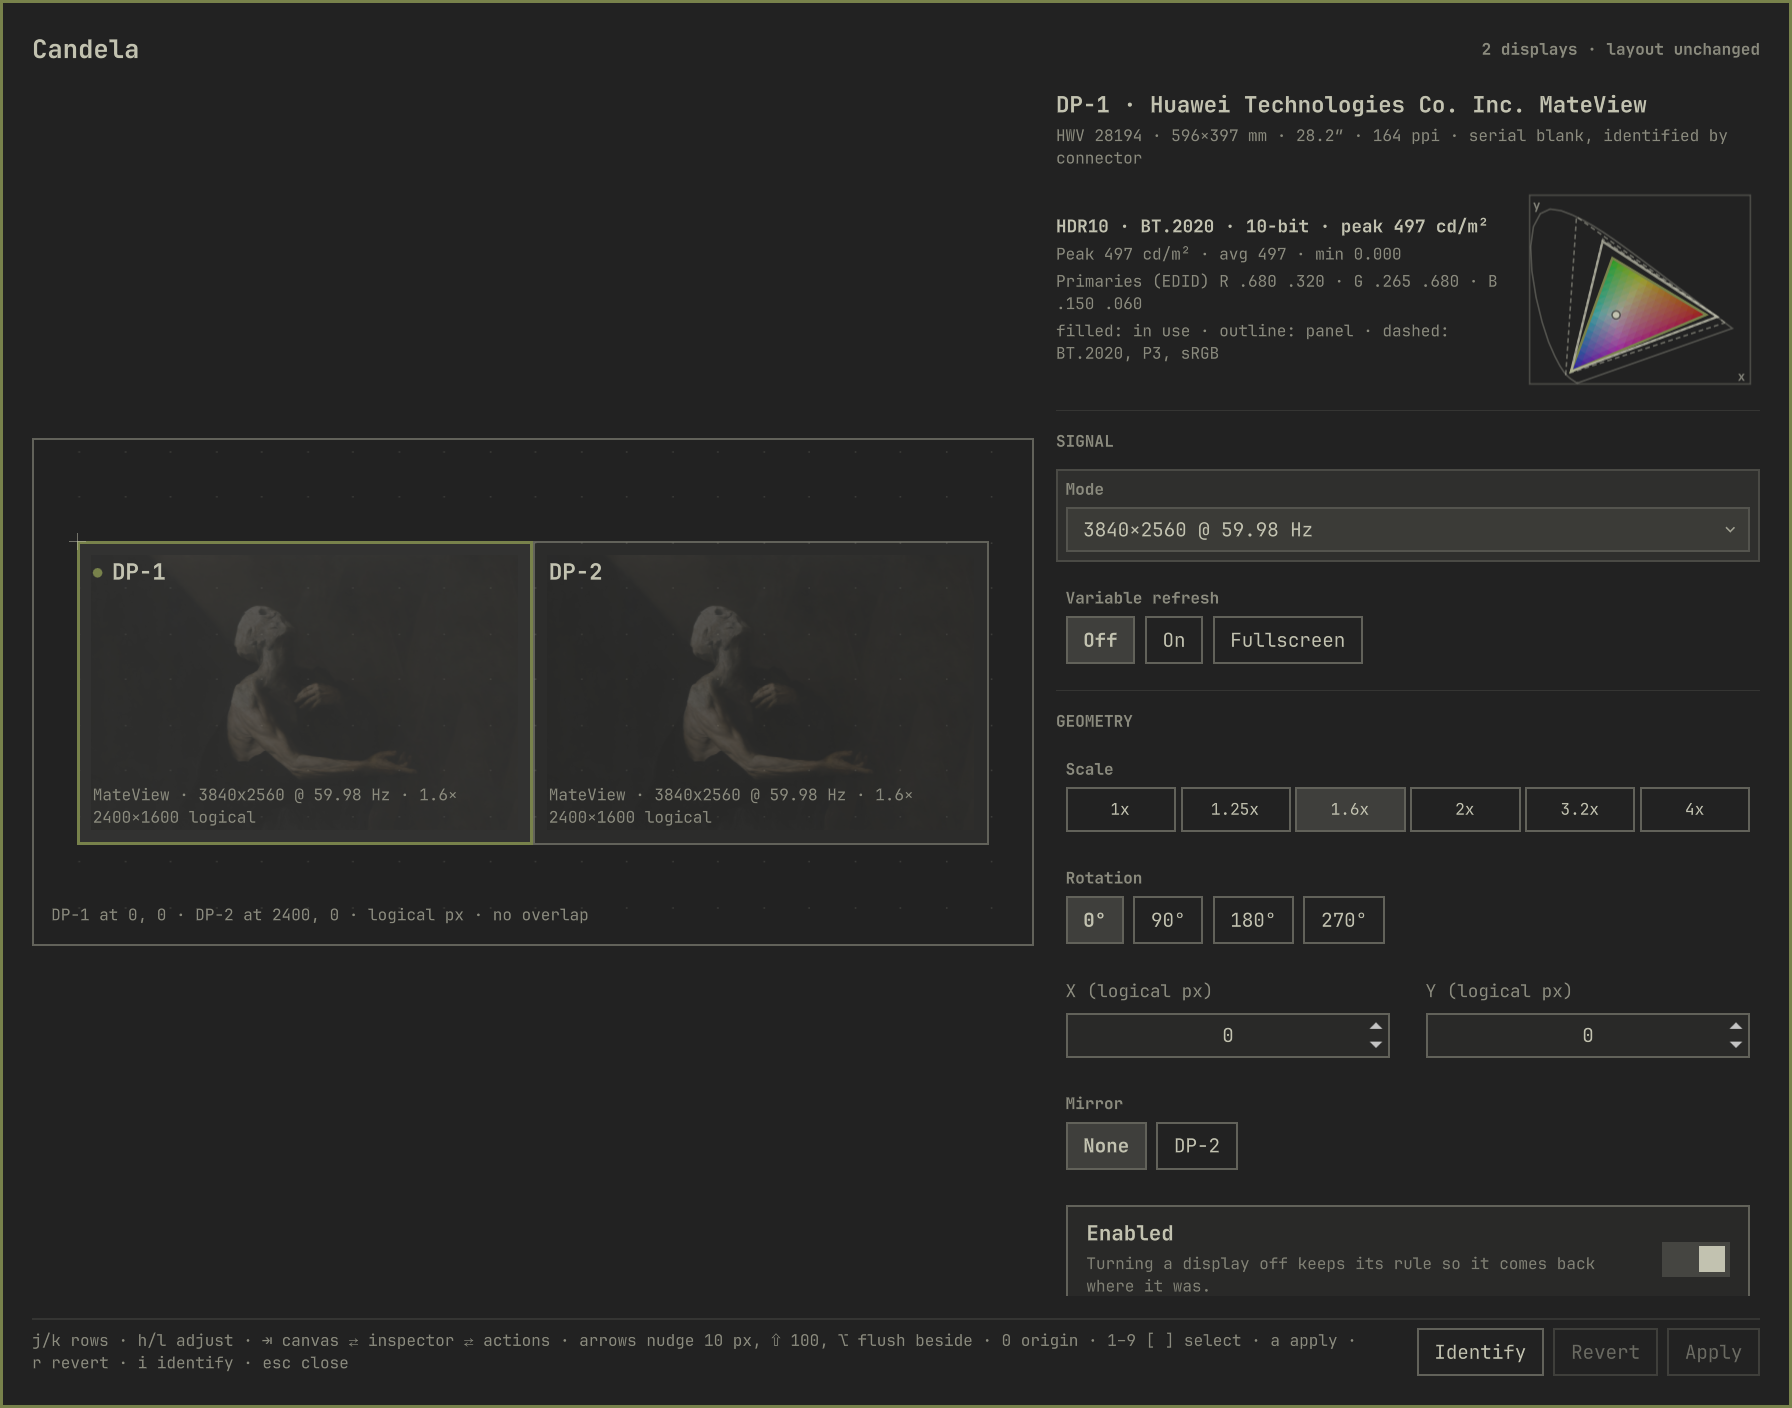
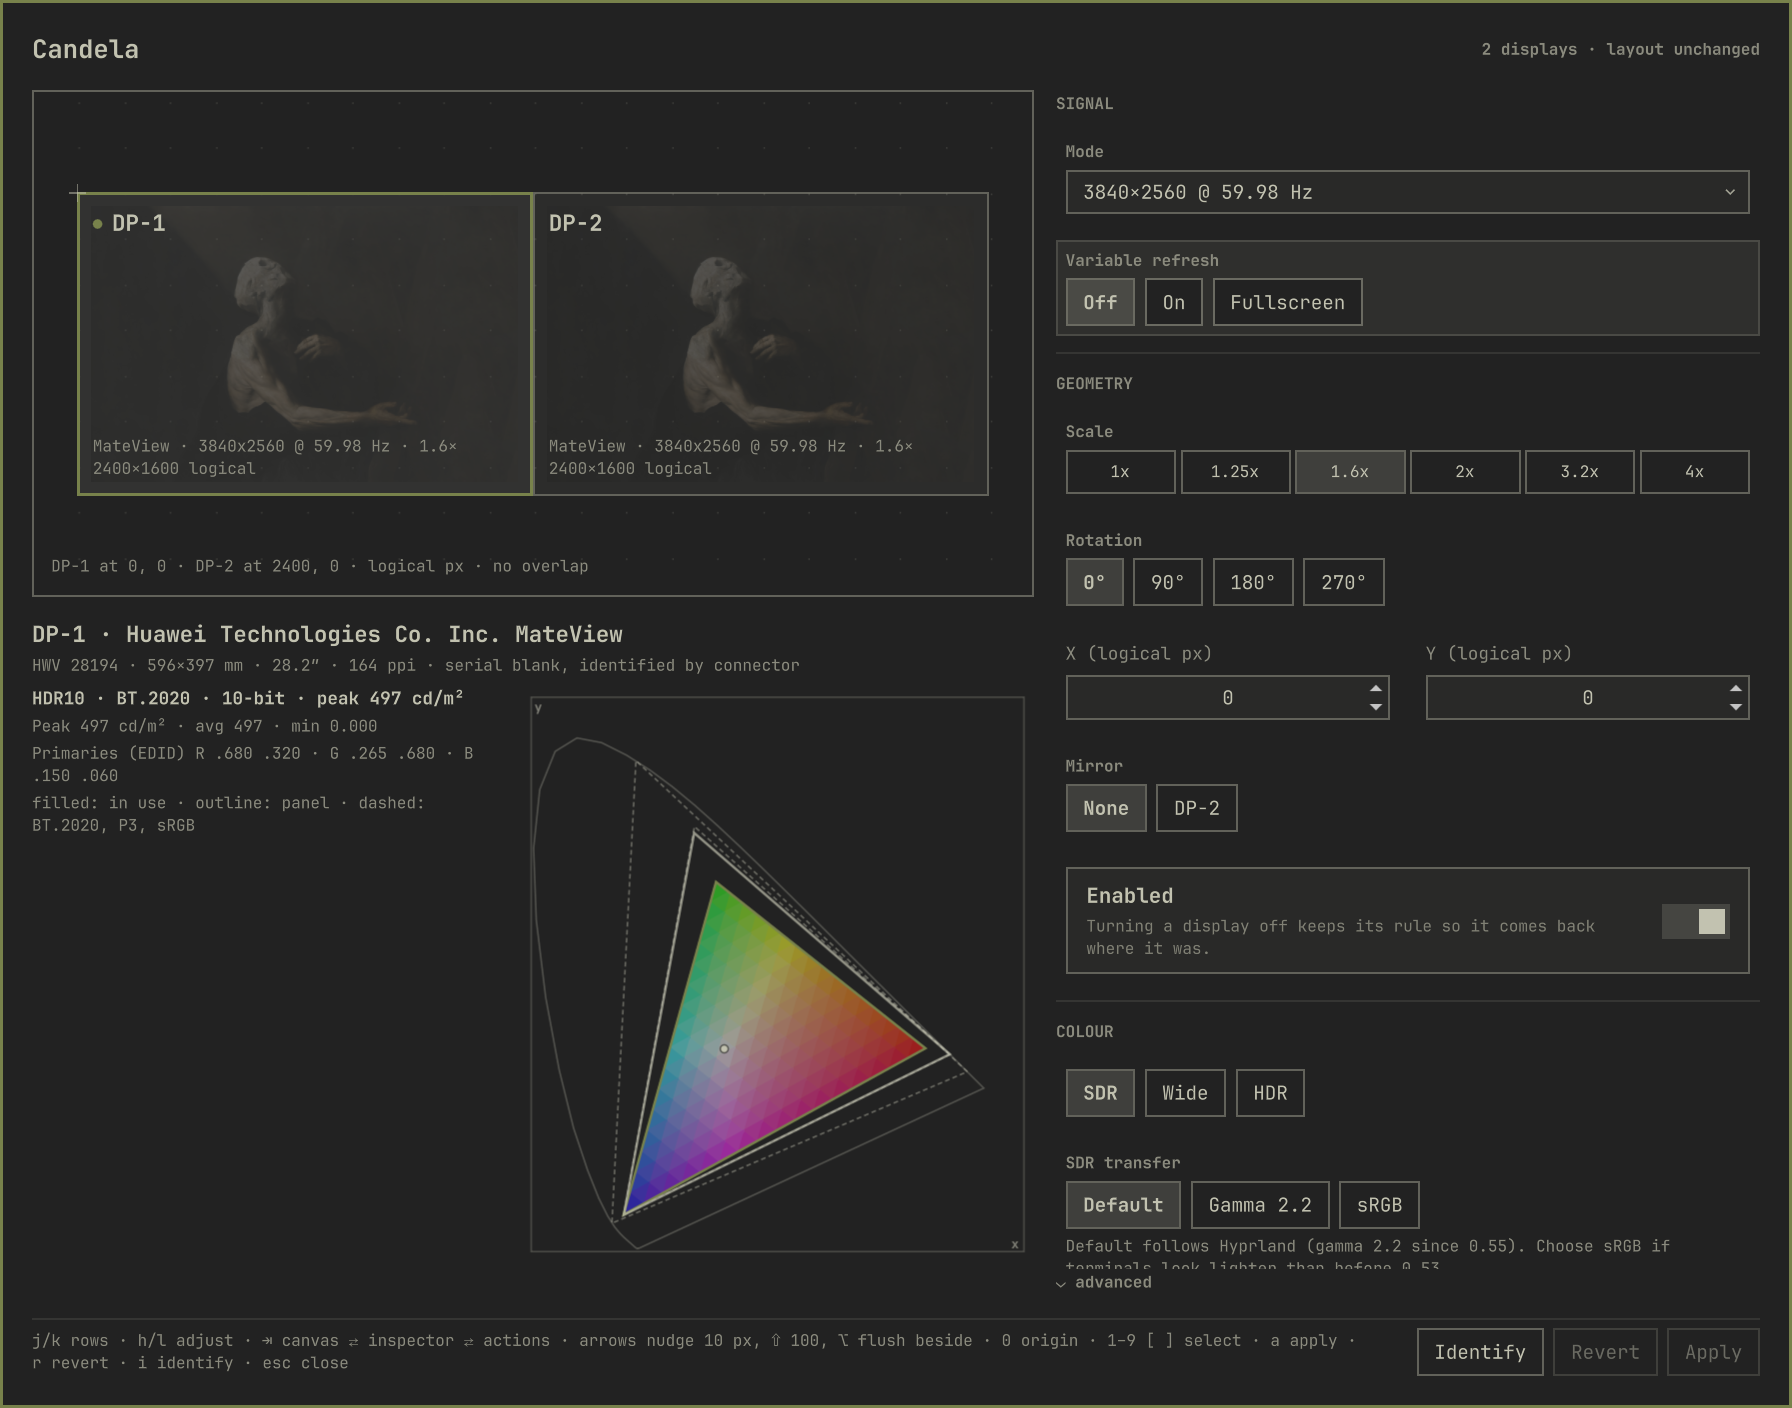
Inspector: say what is below the fold, then remove most of the fold
The inspector scrolls and the shell's AsNeeded scrollbar paints nothing at
rest, so on this card everything from COLOUR down — SDR/Wide/HDR, SDR
white, transfer, ICC — sat below the bottom edge with nothing to say it
existed. The keyboard was already fine; ensureRowVisible scrolls its
cursor. This was for the eye.

Two changes. A line under the inspector names the sections still below
and takes you to the first of them when clicked, falling back to "more"
when what is hidden is the tail of a section already on screen. It keeps
its height whether or not it has anything to say, so scrolling never
resizes the column.

And the panel identity — name, EDID capabilities, primaries, the gamut
plot — moves out of the scroller into the space under the canvas. It is
what the display *is* rather than what you can do to it, it holds no
InspectorRow so the keyboard's row order is untouched, and taking ~215
logical px off the top of the inspector brings COLOUR above the fold. The
canvas goes back to top-aligned now that what was a void below it carries
something.

The plot inherits the room, and with it a fix: px and py scaled x and y
independently, which stretched the diagram and moved every primary off its
true place. One unit for both axes now, centred in whatever box it is
given, so the caller can size it freely — here to the height the column
has left, at the diagram's own 0.8:0.9 proportion.

diff --git a/Studio.qml b/Studio.qml
@@ -48,6 +48,55 @@ Item {
     readonly property int barSize: Style.bar.sizeHorizontal
   }
 
+  // ---------------------------------------------------------- the fold
+  //
+  // The inspector scrolls, and the shell's AsNeeded scrollbar paints nothing
+  // at rest, so anything past the bottom edge was hidden with nothing to say
+  // it was there. The keyboard already scrolls its cursor into view; this is
+  // for the eye. Naming the sections below beats a bare arrow: "there is more"
+  // is a hint, "colour is down there" is an answer.
+  readonly property var inspectorFlick: inspectorScroll.contentItem
+  readonly property real inspectorEdge:
+    (inspectorFlick && inspectorFlick.contentY !== undefined ? inspectorFlick.contentY : 0) + inspectorScroll.height
+  readonly property bool moreBelow: inspector.implicitHeight - inspectorEdge > 4
+  readonly property var sectionMarkers: [
+    { item: signalHeader, name: "signal" },
+    { item: geometryHeader, name: "geometry" },
+    { item: colourHeader, name: "colour" },
+    { item: advancedSection, name: "advanced" }
+  ]
+  readonly property string belowNames: {
+    if (!moreBelow) return ""
+    var out = []
+    for (var i = 0; i < sectionMarkers.length; i++) {
+      var m = sectionMarkers[i]
+      if (m.item && m.item.visible && m.item.y > inspectorEdge - 8) out.push(m.name)
+    }
+    return out.join(" · ")
+  }
+
+  // Clicking the hint takes you to the first section it names.
+  function scrollToFirstBelow() {
+    var flick = inspectorScroll.contentItem
+    if (!flick || flick.contentY === undefined) return
+    for (var i = 0; i < sectionMarkers.length; i++) {
+      var item = sectionMarkers[i].item
+      if (!item || !item.visible || item.y <= root.inspectorEdge - 8) continue
+      var limit = Math.max(0, inspector.implicitHeight - inspectorScroll.height)
+      scrollAnim.target = flick
+      scrollAnim.to = Math.min(limit, Math.max(0, item.y - Style.spacing.md))
+      scrollAnim.restart()
+      return
+    }
+  }
+
+  NumberAnimation {
+    id: scrollAnim
+    property: "contentY"
+    duration: 220
+    easing.type: Easing.OutCubic
+  }
+
   // ---------------------------------------------------------- lifecycle
   // Logical pixels and cd/m² are not currency: no thousands separators.
   Component.onCompleted: {
@@ -568,17 +617,17 @@ Item {
 
           // ---------- body ----------
           Item {
+            id: bodyItem
             width: parent.width
             height: parent.height - y - actionsArea.height - parent.spacing
 
             DisplayCanvas {
               id: canvas
               anchors.left: parent.left
-              // Centred rather than top-aligned. Sharing a top edge with the
-              // inspector is the stronger grid, but with a layout as wide as
-              // two side-by-side displays it pools every spare pixel into one
-              // hole in the corner; split above and below it reads as air.
-              anchors.verticalCenter: parent.verticalCenter
+              // Top-aligned: the canvas and the inspector start on the same
+              // line, and what used to be a void underneath now carries the
+              // panel's identity, so nothing is stranded.
+              anchors.top: parent.top
               width: Math.round(parent.width * 0.58)
               // Hug the arrangement instead of filling the column: two wide
               // displays in a tall box left the layout stranded in a field of
@@ -598,13 +647,121 @@ Item {
               onMoved: function(name, x, y) { root.moveDisplay(name, x, y) }
             }
 
+            // ----- panel identity, under the canvas
+            //
+            // This is what the display *is* rather than what you can do to
+            // it, so it belongs beside the picture of the desk and not at the
+            // top of a column of controls, where it pushed the colour
+            // controls — the point of the tool — off the bottom of the card.
+            // It holds no InspectorRow, so the keyboard's row order is
+            // untouched by living here.
+            Column {
+              id: panelInfo
+              anchors.left: parent.left
+              anchors.top: canvas.bottom
+              anchors.topMargin: Style.spacing.panelGap
+              anchors.right: canvas.right
+              // Bounded and clipped: on a card short enough that the canvas
+              // and the plot cannot both have what they want, this gets cut
+              // rather than drawn over the action bar.
+              height: Math.max(0, bodyItem.height - panelInfo.y)
+              clip: true
+              spacing: Style.spacing.md
+
+              Column {
+                id: identityColumn
+                width: parent.width
+                spacing: Style.spacing.xs
+                Text {
+                  textFormat: Text.PlainText
+                  text: root.display ? root.display.name + " · " + String(root.display.description || root.display.model || "").trim() : "No display"
+                  color: root.foreground
+                  font.family: root.fontFamily; font.pixelSize: Style.font.title; font.bold: true
+                  elide: Text.ElideRight; width: parent.width
+                }
+                Text {
+                  textFormat: Text.PlainText
+                  text: root.display ? Model.panelLine(root.display) : ""
+                  color: root.dim
+                  font.family: root.fontFamily; font.pixelSize: Style.font.caption
+                  wrapMode: Text.WordWrap; width: parent.width
+                }
+              }
+
+              Row {
+                id: capRow
+                width: parent.width
+                spacing: Style.spacing.xxl
+                visible: root.caps.available === true
+                // Top-aligned, not centred against the plot: centring left a
+                // hole between the panel's name and what it can do.
+                Column {
+                  width: parent.width - gamut.width - parent.spacing
+                  spacing: Style.spacing.xs
+                  Text { textFormat: Text.PlainText; text: Model.capabilityLine(root.caps); color: root.foreground; font.family: root.fontFamily; font.pixelSize: Style.font.bodySmall; font.bold: true; elide: Text.ElideRight; width: parent.width }
+                  Text { textFormat: Text.PlainText; text: Model.luminanceLine(root.caps); visible: text !== ""; color: root.dim; font.family: root.fontFamily; font.pixelSize: Style.font.caption; elide: Text.ElideRight; width: parent.width }
+                  Text { textFormat: Text.PlainText; text: root.caps.primaries ? "Primaries (EDID) " + Model.primariesLine(root.caps) : ""; visible: text !== ""; color: root.dim; font.family: root.fontFamily; font.pixelSize: Style.font.caption; wrapMode: Text.WordWrap; width: parent.width }
+                  Text { textFormat: Text.PlainText; text: "filled: in use · outline: panel · dashed: BT.2020, P3, sRGB"; color: root.dim; font.family: root.fontFamily; font.pixelSize: Style.font.caption; wrapMode: Text.WordWrap; width: parent.width }
+                }
+                // Room to be an instrument here, which it never had wedged
+                // beside the identity text at the top of the inspector.
+                GamutPlot {
+                  id: gamut
+                  // Takes the height the column has left, and a width in the
+                  // diagram's own 0.8:0.9 proportion so the plot is all
+                  // diagram and no padding.
+                  height: Math.round(Math.max(Style.space(120),
+                                              Math.min(Style.space(360),
+                                                       bodyItem.height - panelInfo.y - capRow.y)))
+                  width: Math.round(height * 0.8 / 0.9)
+                  primaries: root.caps.primaries || null
+                  // Draft-aware, so the triangle grows the moment Wide or
+                  // HDR is chosen rather than waiting for the apply.
+                  mode: root.display ? root.colourOf(root.display) : "sdr"
+                  foreground: root.foreground
+                  accent: root.accent
+                  surface: root.background
+                }
+              }
+            }
+
+            // The line stays whether or not it has anything to say, so the
+            // inspector does not resize itself every time you scroll.
+            Text {
+              id: foldHint
+              anchors.left: inspectorScroll.left
+              anchors.right: inspectorScroll.right
+              anchors.bottom: parent.bottom
+              height: Math.round(Style.font.caption * 1.7)
+              verticalAlignment: Text.AlignVCenter
+              textFormat: Text.PlainText
+              // Falls back to "more" when what is below is the tail of a
+              // section already on screen — Advanced expanded, say — which
+              // names nothing but is still hidden.
+              text: !root.moreBelow ? "" : "⌄ " + (root.belowNames === "" ? "more" : root.belowNames)
+              color: root.dim
+              font.family: root.fontFamily
+              font.pixelSize: Style.font.caption
+              font.bold: true
+              elide: Text.ElideRight
+              opacity: root.moreBelow ? 1 : 0
+              Behavior on opacity { NumberAnimation { duration: 140; easing.type: Easing.OutCubic } }
+
+              MouseArea {
+                anchors.fill: parent
+                enabled: root.moreBelow
+                cursorShape: Qt.PointingHandCursor
+                onClicked: root.scrollToFirstBelow()
+              }
+            }
+
             ScrollView {
               id: inspectorScroll
               anchors.left: canvas.right
               anchors.leftMargin: Style.spacing.panelGap
               anchors.right: parent.right
               anchors.top: parent.top
-              anchors.bottom: parent.bottom
+              anchors.bottom: foldHint.top
               clip: true
               ScrollBar.horizontal.policy: ScrollBar.AlwaysOff
               ScrollBar.vertical.policy: inspector.implicitHeight > height ? ScrollBar.AsNeeded : ScrollBar.AlwaysOff
@@ -614,54 +771,8 @@ Item {
                 width: inspectorScroll.availableWidth
                 spacing: Style.spacing.xl
 
-                // ----- panel identity
-                Column {
-                  width: parent.width
-                  spacing: Style.spacing.xs
-                  Text {
-                    textFormat: Text.PlainText
-                    text: root.display ? root.display.name + " · " + String(root.display.description || root.display.model || "").trim() : "No display"
-                    color: root.foreground
-                    font.family: root.fontFamily; font.pixelSize: Style.font.title; font.bold: true
-                    elide: Text.ElideRight; width: parent.width
-                  }
-                  Text {
-                    textFormat: Text.PlainText
-                    text: root.display ? Model.panelLine(root.display) : ""
-                    color: root.dim
-                    font.family: root.fontFamily; font.pixelSize: Style.font.caption
-                    wrapMode: Text.WordWrap; width: parent.width
-                  }
-                }
-
-                Row {
-                  width: parent.width
-                  spacing: Style.spacing.xxl
-                  visible: root.caps.available === true
-                  Column {
-                    width: parent.width - gamut.width - parent.spacing
-                    spacing: Style.spacing.xs
-                    anchors.verticalCenter: parent.verticalCenter
-                    Text { textFormat: Text.PlainText; text: Model.capabilityLine(root.caps); color: root.foreground; font.family: root.fontFamily; font.pixelSize: Style.font.bodySmall; font.bold: true; elide: Text.ElideRight; width: parent.width }
-                    Text { textFormat: Text.PlainText; text: Model.luminanceLine(root.caps); visible: text !== ""; color: root.dim; font.family: root.fontFamily; font.pixelSize: Style.font.caption; elide: Text.ElideRight; width: parent.width }
-                    Text { textFormat: Text.PlainText; text: root.caps.primaries ? "Primaries (EDID) " + Model.primariesLine(root.caps) : ""; visible: text !== ""; color: root.dim; font.family: root.fontFamily; font.pixelSize: Style.font.caption; wrapMode: Text.WordWrap; width: parent.width }
-                    Text { textFormat: Text.PlainText; text: "filled: in use · outline: panel · dashed: BT.2020, P3, sRGB"; color: root.dim; font.family: root.fontFamily; font.pixelSize: Style.font.caption; wrapMode: Text.WordWrap; width: parent.width }
-                  }
-                  GamutPlot {
-                    id: gamut
-                    primaries: root.caps.primaries || null
-                    // Draft-aware, so the triangle grows the moment Wide or
-                    // HDR is chosen rather than waiting for the apply.
-                    mode: root.display ? root.colourOf(root.display) : "sdr"
-                    foreground: root.foreground
-                    accent: root.accent
-                    surface: root.background
-                  }
-                }
-
                 // ----- signal
-                PanelSeparator { foreground: root.foreground }
-                PanelSectionHeader { text: "SIGNAL"; foreground: root.foreground; fontFamily: root.fontFamily }
+                PanelSectionHeader { id: signalHeader; text: "SIGNAL"; foreground: root.foreground; fontFamily: root.fontFamily }
 
                 InspectorRow {
                   rowId: "mode"
@@ -696,7 +807,7 @@ Item {
 
                 // ----- geometry
                 PanelSeparator { foreground: root.foreground }
-                PanelSectionHeader { text: "GEOMETRY"; foreground: root.foreground; fontFamily: root.fontFamily }
+                PanelSectionHeader { id: geometryHeader; text: "GEOMETRY"; foreground: root.foreground; fontFamily: root.fontFamily }
 
                 InspectorRow {
                   rowId: "scale"
@@ -812,7 +923,7 @@ Item {
 
                 // ----- colour
                 PanelSeparator { visible: root.caps.available === true; foreground: root.foreground }
-                PanelSectionHeader { visible: root.caps.available === true; text: "COLOUR"; foreground: root.foreground; fontFamily: root.fontFamily }
+                PanelSectionHeader { id: colourHeader; visible: root.caps.available === true; text: "COLOUR"; foreground: root.foreground; fontFamily: root.fontFamily }
 
                 InspectorRow {
                   rowId: "colour"
@@ -920,6 +1031,7 @@ Item {
                 PanelSeparator { visible: root.caps.available === true; foreground: root.foreground }
 
                 InspectorRow {
+                  id: advancedSection
                   rowId: "advanced"
                   visible: root.caps.available === true
                   Item {

diff --git a/components/GamutPlot.qml b/components/GamutPlot.qml
@@ -72,8 +72,16 @@ Item {
       [0.7334,0.2666],[0.7340,0.2660],[0.7344,0.2656],[0.7346,0.2654],[0.7347,0.2653]
     ]
 
-    function px(v) { return 6 + v * (width - 12) / 0.8 }
-    function py(v) { return height - 6 - v * (height - 12) / 0.9 }
+    // One scale for both axes, centred in whatever box it is given. x and y
+    // in CIE 1931 are the same kind of quantity: stretching one against the
+    // other moves every primary off its true place and makes the diagram a
+    // decoration. The caller can size this freely and the geometry holds.
+    readonly property real unit: Math.max(1, Math.min((width - 12) / 0.8, (height - 12) / 0.9))
+    readonly property real insetX: (width - 0.8 * unit) / 2
+    readonly property real insetY: (height - 0.9 * unit) / 2
+
+    function px(v) { return insetX + v * unit }
+    function py(v) { return height - insetY - v * unit }
 
     function lerpPoint(a, b, t) {
       return [a[0] + (b[0] - a[0]) * t, a[1] + (b[1] - a[1]) * t]
